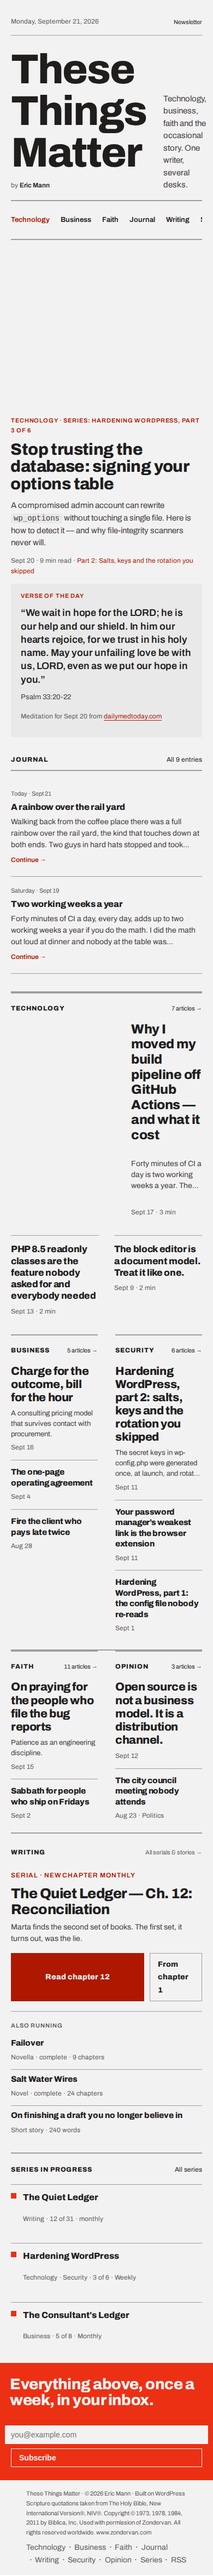
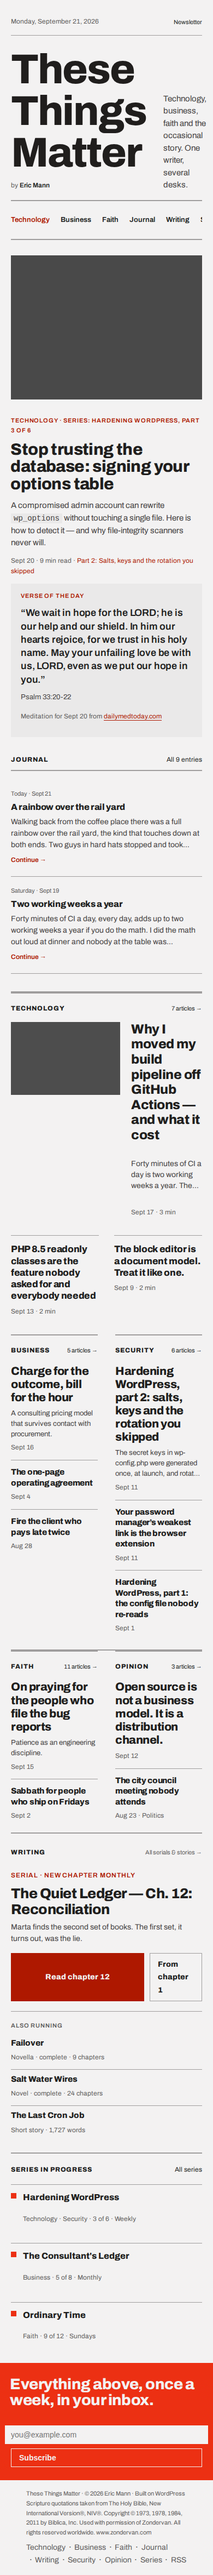
R1-03: Screenshots wait for every image; tech-img asserts a loaded image; regenerate the phase-2 PNGs
Goal: Fix F3 (REVIEW.md) -- front-1280.png showed an empty column where the
Technology featured image belongs because scripts/screenshots.mjs captured
fullPage before the lazy image below the fold had loaded, and the tech-img
fidelity row could not have caught it (it only checked the wrapper's
computed style, not whether an <img> was present or loaded).
Tests: scripts/test/screenshots.test.js
('pendingImages lists the sources whose naturalWidth is 0', plus an
all-loaded case); tests/e2e/fidelity.spec.mjs's tech-img row extended to
assert exactly one <img>, complete, naturalWidth > 0.
Interpretation: scripts/screenshots.mjs now scrolls the full document height
in viewport steps before every capture (so lazy images start loading), waits
for each document.images entry to fire load/error, then exits 1 naming any
image whose naturalWidth is still 0 via the new pure pendingImages() helper.
Manual check: verified the extended tech-img row by `wp post meta delete
8835 _thumbnail_id` (Technology post 2) -- the row failed (element never
rendered / timed out) -- then `wp ttm seed --reset` restored it and the row
passed again. Regenerated all seven PNGs with `npm run screenshots`;
front-1280.png now shows the grey 3:2 block left of "Why I moved my build
pipeline off GitHub Actions...", the strip reads Hardening WordPress / The
Consultant's Ledger / Ordinary Time, and Also running ends with The Last
Cron Job (confirmed visually). npm run test:e2e: 138/138 green.
[…]

diff --git a/scripts/test/screenshots.test.js b/scripts/test/screenshots.test.js
@@ -8,10 +8,11 @@ const path = require( 'path' );
 
 let ZONES;
 let unionClip;
+let pendingImages;
 
 beforeAll( async () => {
 	const mod = await import( path.join( __dirname, '..', 'screenshots.mjs' ) );
-	( { ZONES, unionClip } = mod );
+	( { ZONES, unionClip, pendingImages } = mod );
 } );
 
 describe( 'ZONES', () => {
@@ -27,6 +28,30 @@ describe( 'ZONES', () => {
 			'series-strip.png',
 			'poster-footer.png',
 		] );
+	} );
+} );
+
+describe( 'pendingImages', () => {
+	it( 'pendingImages lists the sources whose naturalWidth is 0', () => {
+		const list = [
+			{ src: 'https://example.com/loaded.png', naturalWidth: 800 },
+			{ src: 'https://example.com/still-loading.png', naturalWidth: 0 },
+			{ src: 'https://example.com/broken.png', naturalWidth: 0 },
+		];
+
+		expect( pendingImages( list ) ).toEqual( [
+			'https://example.com/still-loading.png',
+			'https://example.com/broken.png',
+		] );
+	} );
+
+	it( 'returns an empty list when every image has loaded', () => {
+		const list = [
+			{ src: 'https://example.com/a.png', naturalWidth: 400 },
+			{ src: 'https://example.com/b.png', naturalWidth: 200 },
+		];
+
+		expect( pendingImages( list ) ).toEqual( [] );
 	} );
 } );
 
